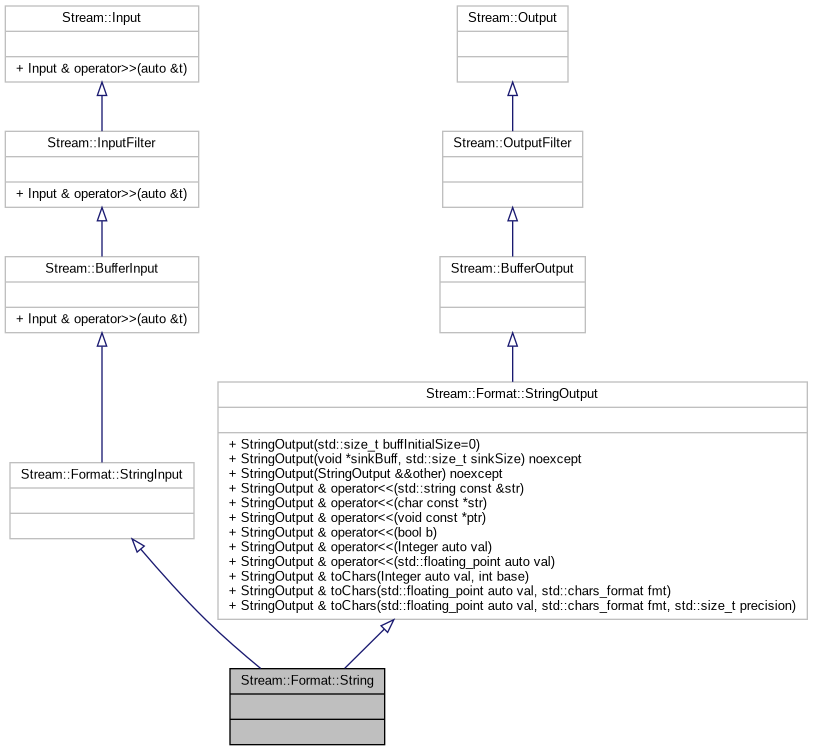
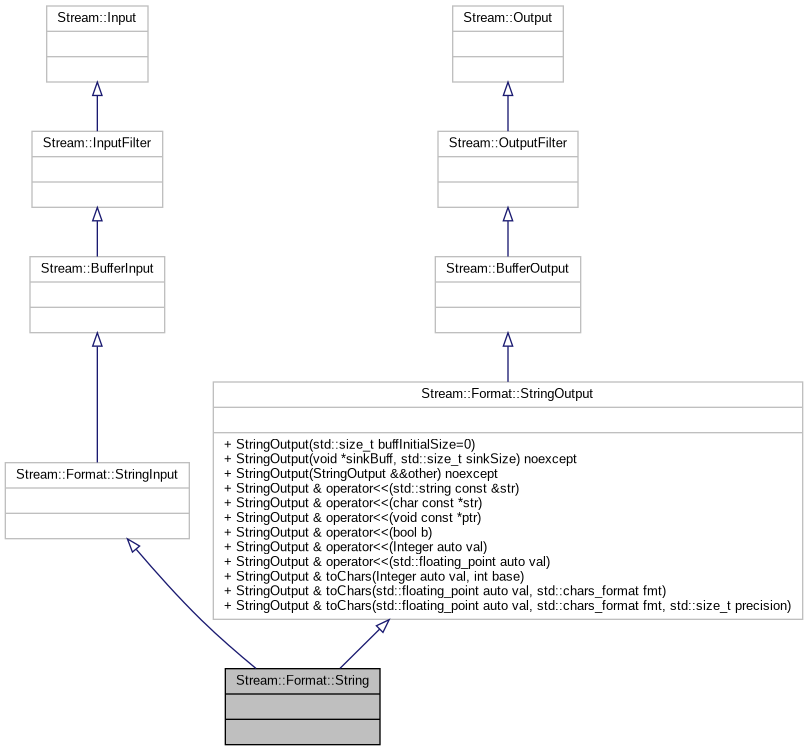
.

diff --git a/d9/d23/classStream_1_1Format_1_1String-members.html b/d9/d23/classStream_1_1Format_1_1String-members.html
@@ -80,13 +80,12 @@ $(function() {
   <tr bgcolor="#f0f0f0" class="odd"><td class="entry"><b>operator&lt;&lt;</b>(bool b) (defined in <a class="el" href="../../d8/d50/classStream_1_1Format_1_1StringOutput.html">Stream::Format::StringOutput</a>)</td><td class="entry"><a class="el" href="../../d8/d50/classStream_1_1Format_1_1StringOutput.html">Stream::Format::StringOutput</a></td><td class="entry"></td></tr>
   <tr bgcolor="#f0f0f0" class="even"><td class="entry"><b>operator&lt;&lt;</b>(Integer auto val) (defined in <a class="el" href="../../d8/d50/classStream_1_1Format_1_1StringOutput.html">Stream::Format::StringOutput</a>)</td><td class="entry"><a class="el" href="../../d8/d50/classStream_1_1Format_1_1StringOutput.html">Stream::Format::StringOutput</a></td><td class="entry"></td></tr>
   <tr bgcolor="#f0f0f0" class="odd"><td class="entry"><b>operator&lt;&lt;</b>(std::floating_point auto val) (defined in <a class="el" href="../../d8/d50/classStream_1_1Format_1_1StringOutput.html">Stream::Format::StringOutput</a>)</td><td class="entry"><a class="el" href="../../d8/d50/classStream_1_1Format_1_1StringOutput.html">Stream::Format::StringOutput</a></td><td class="entry"></td></tr>
-  <tr class="even"><td class="entry"><a class="elRef" href="../../../Stream/d7/d83/classStream_1_1Input.html#a0a8cb2f45caeb5a945eb15ea27244f31">operator&gt;&gt;</a>(auto &amp;t)</td><td class="entry"><a class="elRef" href="../../../Stream/d2/dc2/classStream_1_1BufferInput.html">Stream::BufferInput</a></td><td class="entry"></td></tr>
-  <tr bgcolor="#f0f0f0" class="odd"><td class="entry"><b>StringOutput</b>(std::size_t buffInitialSize=0) (defined in <a class="el" href="../../d8/d50/classStream_1_1Format_1_1StringOutput.html">Stream::Format::StringOutput</a>)</td><td class="entry"><a class="el" href="../../d8/d50/classStream_1_1Format_1_1StringOutput.html">Stream::Format::StringOutput</a></td><td class="entry"><span class="mlabel">explicit</span></td></tr>
-  <tr bgcolor="#f0f0f0" class="even"><td class="entry"><b>StringOutput</b>(void *sinkBuff, std::size_t sinkSize) noexcept (defined in <a class="el" href="../../d8/d50/classStream_1_1Format_1_1StringOutput.html">Stream::Format::StringOutput</a>)</td><td class="entry"><a class="el" href="../../d8/d50/classStream_1_1Format_1_1StringOutput.html">Stream::Format::StringOutput</a></td><td class="entry"></td></tr>
-  <tr bgcolor="#f0f0f0" class="odd"><td class="entry"><b>StringOutput</b>(StringOutput &amp;&amp;other) noexcept (defined in <a class="el" href="../../d8/d50/classStream_1_1Format_1_1StringOutput.html">Stream::Format::StringOutput</a>)</td><td class="entry"><a class="el" href="../../d8/d50/classStream_1_1Format_1_1StringOutput.html">Stream::Format::StringOutput</a></td><td class="entry"></td></tr>
-  <tr bgcolor="#f0f0f0" class="even"><td class="entry"><b>toChars</b>(Integer auto val, int base) (defined in <a class="el" href="../../d8/d50/classStream_1_1Format_1_1StringOutput.html">Stream::Format::StringOutput</a>)</td><td class="entry"><a class="el" href="../../d8/d50/classStream_1_1Format_1_1StringOutput.html">Stream::Format::StringOutput</a></td><td class="entry"></td></tr>
-  <tr bgcolor="#f0f0f0" class="odd"><td class="entry"><b>toChars</b>(std::floating_point auto val, std::chars_format fmt) (defined in <a class="el" href="../../d8/d50/classStream_1_1Format_1_1StringOutput.html">Stream::Format::StringOutput</a>)</td><td class="entry"><a class="el" href="../../d8/d50/classStream_1_1Format_1_1StringOutput.html">Stream::Format::StringOutput</a></td><td class="entry"></td></tr>
-  <tr bgcolor="#f0f0f0" class="even"><td class="entry"><b>toChars</b>(std::floating_point auto val, std::chars_format fmt, std::size_t precision) (defined in <a class="el" href="../../d8/d50/classStream_1_1Format_1_1StringOutput.html">Stream::Format::StringOutput</a>)</td><td class="entry"><a class="el" href="../../d8/d50/classStream_1_1Format_1_1StringOutput.html">Stream::Format::StringOutput</a></td><td class="entry"></td></tr>
+  <tr bgcolor="#f0f0f0" class="even"><td class="entry"><b>StringOutput</b>(std::size_t buffInitialSize=0) (defined in <a class="el" href="../../d8/d50/classStream_1_1Format_1_1StringOutput.html">Stream::Format::StringOutput</a>)</td><td class="entry"><a class="el" href="../../d8/d50/classStream_1_1Format_1_1StringOutput.html">Stream::Format::StringOutput</a></td><td class="entry"><span class="mlabel">explicit</span></td></tr>
+  <tr bgcolor="#f0f0f0" class="odd"><td class="entry"><b>StringOutput</b>(void *sinkBuff, std::size_t sinkSize) noexcept (defined in <a class="el" href="../../d8/d50/classStream_1_1Format_1_1StringOutput.html">Stream::Format::StringOutput</a>)</td><td class="entry"><a class="el" href="../../d8/d50/classStream_1_1Format_1_1StringOutput.html">Stream::Format::StringOutput</a></td><td class="entry"></td></tr>
+  <tr bgcolor="#f0f0f0" class="even"><td class="entry"><b>StringOutput</b>(StringOutput &amp;&amp;other) noexcept (defined in <a class="el" href="../../d8/d50/classStream_1_1Format_1_1StringOutput.html">Stream::Format::StringOutput</a>)</td><td class="entry"><a class="el" href="../../d8/d50/classStream_1_1Format_1_1StringOutput.html">Stream::Format::StringOutput</a></td><td class="entry"></td></tr>
+  <tr bgcolor="#f0f0f0" class="odd"><td class="entry"><b>toChars</b>(Integer auto val, int base) (defined in <a class="el" href="../../d8/d50/classStream_1_1Format_1_1StringOutput.html">Stream::Format::StringOutput</a>)</td><td class="entry"><a class="el" href="../../d8/d50/classStream_1_1Format_1_1StringOutput.html">Stream::Format::StringOutput</a></td><td class="entry"></td></tr>
+  <tr bgcolor="#f0f0f0" class="even"><td class="entry"><b>toChars</b>(std::floating_point auto val, std::chars_format fmt) (defined in <a class="el" href="../../d8/d50/classStream_1_1Format_1_1StringOutput.html">Stream::Format::StringOutput</a>)</td><td class="entry"><a class="el" href="../../d8/d50/classStream_1_1Format_1_1StringOutput.html">Stream::Format::StringOutput</a></td><td class="entry"></td></tr>
+  <tr bgcolor="#f0f0f0" class="odd"><td class="entry"><b>toChars</b>(std::floating_point auto val, std::chars_format fmt, std::size_t precision) (defined in <a class="el" href="../../d8/d50/classStream_1_1Format_1_1StringOutput.html">Stream::Format::StringOutput</a>)</td><td class="entry"><a class="el" href="../../d8/d50/classStream_1_1Format_1_1StringOutput.html">Stream::Format::StringOutput</a></td><td class="entry"></td></tr>
 </table></div><!-- contents -->
 <!-- start footer part -->
 		<script src="../../custom.js"></script>

diff --git a/dd/d7a/classStream_1_1Format_1_1String.html b/dd/d7a/classStream_1_1Format_1_1String.html
@@ -80,15 +80,15 @@ Inheritance diagram for Stream::Format::String:</div>
 <div class="dyncontent">
 <div class="center"><img src="../../d2/d58/classStream_1_1Format_1_1String__inherit__graph.png" border="0" usemap="#aStream_1_1Format_1_1String_inherit__map" alt="Inheritance graph"/></div>
 <map name="aStream_1_1Format_1_1String_inherit__map" id="aStream_1_1Format_1_1String_inherit__map">
-<area shape="rect" title=" " alt="" coords="230,668,385,745"/>
-<area shape="rect" href="../../d1/d9f/classStream_1_1Format_1_1StringInput.html" title=" " alt="" coords="10,462,194,539"/>
-<area shape="rect" target="_parent" href="../../../Stream/d2/dc2/classStream_1_1BufferInput" title=" " alt="" coords="5,256,199,333"/>
-<area shape="rect" target="_parent" href="../../../Stream/d3/d2f/classStream_1_1InputFilter" title=" " alt="" coords="5,131,199,208"/>
-<area shape="rect" target="_parent" href="../../../Stream/d7/d83/classStream_1_1Input" title=" " alt="" coords="5,5,199,83"/>
-<area shape="rect" href="../../d8/d50/classStream_1_1Format_1_1StringOutput.html" title=" " alt="" coords="218,381,807,620"/>
-<area shape="rect" target="_parent" href="../../../Stream/da/d65/classStream_1_1BufferOutput" title=" " alt="" coords="440,256,585,333"/>
-<area shape="rect" target="_parent" href="../../../Stream/d0/d57/classStream_1_1OutputFilter" title=" " alt="" coords="443,131,583,208"/>
-<area shape="rect" target="_parent" href="../../../Stream/df/dc2/classStream_1_1Output" title=" " alt="" coords="457,5,568,83"/>
+<area shape="rect" title=" " alt="" coords="225,668,380,745"/>
+<area shape="rect" href="../../d1/d9f/classStream_1_1Format_1_1StringInput.html" title=" " alt="" coords="5,462,189,539"/>
+<area shape="rect" target="_parent" href="../../../Stream/d2/dc2/classStream_1_1BufferInput" title=" " alt="" coords="30,256,165,333"/>
+<area shape="rect" target="_parent" href="../../../Stream/d3/d2f/classStream_1_1InputFilter" title=" " alt="" coords="32,131,163,208"/>
+<area shape="rect" target="_parent" href="../../../Stream/d7/d83/classStream_1_1Input" title=" " alt="" coords="47,5,148,83"/>
+<area shape="rect" href="../../d8/d50/classStream_1_1Format_1_1StringOutput.html" title=" " alt="" coords="213,381,803,620"/>
+<area shape="rect" target="_parent" href="../../../Stream/da/d65/classStream_1_1BufferOutput" title=" " alt="" coords="435,256,581,333"/>
+<area shape="rect" target="_parent" href="../../../Stream/d0/d57/classStream_1_1OutputFilter" title=" " alt="" coords="438,131,578,208"/>
+<area shape="rect" target="_parent" href="../../../Stream/df/dc2/classStream_1_1Output" title=" " alt="" coords="453,5,563,83"/>
 </map>
 </div>
 <table class="memberdecls">
@@ -99,9 +99,6 @@ Classes</h2></td></tr>
 </table><table class="memberdecls">
 <tr class="heading"><td colspan="2"><h2 class="groupheader"><a id="pub-methods" name="pub-methods"></a>
 Public Member Functions</h2></td></tr>
-<tr class="memitem:a0a8cb2f45caeb5a945eb15ea27244f31"><td class="memItemLeft" align="right" valign="top"><a id="a0a8cb2f45caeb5a945eb15ea27244f31" name="a0a8cb2f45caeb5a945eb15ea27244f31"></a>
-<a class="elRef" href="../../../Stream/d7/d83/classStream_1_1Input.html">Input</a> &amp;&#160;</td><td class="memItemRight" valign="bottom"><a class="elRef" href="../../../Stream/d7/d83/classStream_1_1Input.html#a0a8cb2f45caeb5a945eb15ea27244f31">operator&gt;&gt;</a> (auto &amp;t)</td></tr>
-<tr class="separator:a0a8cb2f45caeb5a945eb15ea27244f31"><td class="memSeparator" colspan="2">&#160;</td></tr>
 <tr class="memitem:a1677108f161cce584ede90b74e25de9f"><td class="memItemLeft" align="right" valign="top"><a class="el" href="../../d8/d50/classStream_1_1Format_1_1StringOutput.html">StringOutput</a> &amp;&#160;</td><td class="memItemRight" valign="bottom"><a class="el" href="../../d8/d50/classStream_1_1Format_1_1StringOutput.html#a1677108f161cce584ede90b74e25de9f">operator&lt;&lt;</a> (std::string const &amp;str)</td></tr>
 <tr class="separator:a1677108f161cce584ede90b74e25de9f"><td class="memSeparator" colspan="2">&#160;</td></tr>
 <tr class="memitem:a3bab86c42417e78b4fd7b4cf541fa922"><td class="memItemLeft" align="right" valign="top"><a class="el" href="../../d8/d50/classStream_1_1Format_1_1StringOutput.html">StringOutput</a> &amp;&#160;</td><td class="memItemRight" valign="bottom"><a class="el" href="../../d8/d50/classStream_1_1Format_1_1StringOutput.html#a3bab86c42417e78b4fd7b4cf541fa922">operator&lt;&lt;</a> (char const *str)</td></tr>

diff --git a/d1/d9f/classStream_1_1Format_1_1StringInput.html b/d1/d9f/classStream_1_1Format_1_1StringInput.html
@@ -69,9 +69,7 @@ $(function() {
 </div><!-- top -->
 <div class="header">
   <div class="summary">
-<a href="#nested-classes">Classes</a> &#124;
-<a href="#pub-methods">Public Member Functions</a> &#124;
-<a href="../../da/d25/classStream_1_1Format_1_1StringInput-members.html">List of all members</a>  </div>
+<a href="#nested-classes">Classes</a>  </div>
   <div class="headertitle"><div class="title">Stream::Format::StringInput Class Reference</div></div>
 </div><!--header-->
 <div class="contents">
@@ -80,11 +78,11 @@ Inheritance diagram for Stream::Format::StringInput:</div>
 <div class="dyncontent">
 <div class="center"><img src="../../dd/d49/classStream_1_1Format_1_1StringInput__inherit__graph.png" border="0" usemap="#aStream_1_1Format_1_1StringInput_inherit__map" alt="Inheritance graph"/></div>
 <map name="aStream_1_1Format_1_1StringInput_inherit__map" id="aStream_1_1Format_1_1StringInput_inherit__map">
-<area shape="rect" title=" " alt="" coords="10,381,194,459"/>
-<area shape="rect" href="../../dd/d7a/classStream_1_1Format_1_1String.html" title=" " alt="" coords="25,507,179,584"/>
-<area shape="rect" target="_parent" href="../../../Stream/d2/dc2/classStream_1_1BufferInput" title=" " alt="" coords="5,256,199,333"/>
-<area shape="rect" target="_parent" href="../../../Stream/d3/d2f/classStream_1_1InputFilter" title=" " alt="" coords="5,131,199,208"/>
-<area shape="rect" target="_parent" href="../../../Stream/d7/d83/classStream_1_1Input" title=" " alt="" coords="5,5,199,83"/>
+<area shape="rect" title=" " alt="" coords="5,381,189,459"/>
+<area shape="rect" href="../../dd/d7a/classStream_1_1Format_1_1String.html" title=" " alt="" coords="20,507,175,584"/>
+<area shape="rect" target="_parent" href="../../../Stream/d2/dc2/classStream_1_1BufferInput" title=" " alt="" coords="30,256,165,333"/>
+<area shape="rect" target="_parent" href="../../../Stream/d3/d2f/classStream_1_1InputFilter" title=" " alt="" coords="32,131,163,208"/>
+<area shape="rect" target="_parent" href="../../../Stream/d7/d83/classStream_1_1Input" title=" " alt="" coords="47,5,148,83"/>
 </map>
 </div>
 <table class="memberdecls">
@@ -92,12 +90,6 @@ Inheritance diagram for Stream::Format::StringInput:</div>
 Classes</h2></td></tr>
 <tr class="memitem:"><td class="memItemLeft" align="right" valign="top">struct &#160;</td><td class="memItemRight" valign="bottom"><a class="el" href="../../db/d74/structStream_1_1Format_1_1StringInput_1_1Exception.html">Exception</a></td></tr>
 <tr class="separator:"><td class="memSeparator" colspan="2">&#160;</td></tr>
-</table><table class="memberdecls">
-<tr class="heading"><td colspan="2"><h2 class="groupheader"><a id="pub-methods" name="pub-methods"></a>
-Public Member Functions</h2></td></tr>
-<tr class="memitem:a0a8cb2f45caeb5a945eb15ea27244f31"><td class="memItemLeft" align="right" valign="top"><a id="a0a8cb2f45caeb5a945eb15ea27244f31" name="a0a8cb2f45caeb5a945eb15ea27244f31"></a>
-<a class="elRef" href="../../../Stream/d7/d83/classStream_1_1Input.html">Input</a> &amp;&#160;</td><td class="memItemRight" valign="bottom"><a class="elRef" href="../../../Stream/d7/d83/classStream_1_1Input.html#a0a8cb2f45caeb5a945eb15ea27244f31">operator&gt;&gt;</a> (auto &amp;t)</td></tr>
-<tr class="separator:a0a8cb2f45caeb5a945eb15ea27244f31"><td class="memSeparator" colspan="2">&#160;</td></tr>
 </table>
 <a name="details" id="details"></a><h2 class="groupheader">Detailed Description</h2>
 <div class="textblock">

diff --git a/d6/da6/classStream_1_1Format_1_1Base.html b/d6/da6/classStream_1_1Format_1_1Base.html
@@ -87,9 +87,9 @@ Inheritance diagram for Stream::Format::Base:</div>
 <map name="aStream_1_1Format_1_1Base_inherit__map" id="aStream_1_1Format_1_1Base_inherit__map">
 <area shape="rect" title="Stream::Input / Stream::Output Base decoder and encoder." alt="" coords="89,580,896,760"/>
 <area shape="rect" href="../../d7/d8f/classStream_1_1Format_1_1BaseDecode.html" title="Stream::Input Base decoder." alt="" coords="5,381,497,532"/>
-<area shape="rect" target="_parent" href="../../../Stream/d2/dc2/classStream_1_1BufferInput" title=" " alt="" coords="155,256,348,333"/>
-<area shape="rect" target="_parent" href="../../../Stream/d3/d2f/classStream_1_1InputFilter" title=" " alt="" coords="155,131,348,208"/>
-<area shape="rect" target="_parent" href="../../../Stream/d7/d83/classStream_1_1Input" title=" " alt="" coords="155,5,348,83"/>
+<area shape="rect" target="_parent" href="../../../Stream/d2/dc2/classStream_1_1BufferInput" title=" " alt="" coords="184,256,319,333"/>
+<area shape="rect" target="_parent" href="../../../Stream/d3/d2f/classStream_1_1InputFilter" title=" " alt="" coords="186,131,317,208"/>
+<area shape="rect" target="_parent" href="../../../Stream/d7/d83/classStream_1_1Input" title=" " alt="" coords="201,5,302,83"/>
 <area shape="rect" href="../../d5/d69/classStream_1_1Format_1_1BaseEncode.html" title="Stream::Output Base encoder." alt="" coords="521,381,947,532"/>
 <area shape="rect" target="_parent" href="../../../Stream/da/d65/classStream_1_1BufferOutput" title=" " alt="" coords="661,256,807,333"/>
 <area shape="rect" target="_parent" href="../../../Stream/d0/d57/classStream_1_1OutputFilter" title=" " alt="" coords="664,131,804,208"/>
@@ -124,9 +124,6 @@ Public Member Functions</h2></td></tr>
 <tr class="separator:a228854431cc8af5a3ef721cd934e344f"><td class="memSeparator" colspan="2">&#160;</td></tr>
 <tr class="memitem:a882eb6feb9db3c43daa195cf909431b2"><td class="memItemLeft" align="right" valign="top">void&#160;</td><td class="memItemRight" valign="bottom"><a class="el" href="../../d7/d8f/classStream_1_1Format_1_1BaseDecode.html#a882eb6feb9db3c43daa195cf909431b2">finalizeDecodingWhenNoData</a> (bool on=true)</td></tr>
 <tr class="separator:a882eb6feb9db3c43daa195cf909431b2"><td class="memSeparator" colspan="2">&#160;</td></tr>
-<tr class="memitem:a0a8cb2f45caeb5a945eb15ea27244f31"><td class="memItemLeft" align="right" valign="top"><a id="a0a8cb2f45caeb5a945eb15ea27244f31" name="a0a8cb2f45caeb5a945eb15ea27244f31"></a>
-<a class="elRef" href="../../../Stream/d7/d83/classStream_1_1Input.html">Input</a> &amp;&#160;</td><td class="memItemRight" valign="bottom"><a class="elRef" href="../../../Stream/d7/d83/classStream_1_1Input.html#a0a8cb2f45caeb5a945eb15ea27244f31">operator&gt;&gt;</a> (auto &amp;t)</td></tr>
-<tr class="separator:a0a8cb2f45caeb5a945eb15ea27244f31"><td class="memSeparator" colspan="2">&#160;</td></tr>
 <tr class="memitem:adffa30ae147f4da60779ba962378c935"><td class="memItemLeft" align="right" valign="top">void&#160;</td><td class="memItemRight" valign="bottom"><a class="el" href="../../d5/d69/classStream_1_1Format_1_1BaseEncode.html#adffa30ae147f4da60779ba962378c935">finalizeEncoding</a> ()</td></tr>
 <tr class="separator:adffa30ae147f4da60779ba962378c935"><td class="memSeparator" colspan="2">&#160;</td></tr>
 </table>

diff --git a/d7/d8f/classStream_1_1Format_1_1BaseDecode.html b/d7/d8f/classStream_1_1Format_1_1BaseDecode.html
@@ -88,9 +88,9 @@ Inheritance diagram for Stream::Format::BaseDecode:</div>
 <map name="aStream_1_1Format_1_1BaseDecode_inherit__map" id="aStream_1_1Format_1_1BaseDecode_inherit__map">
 <area shape="rect" title="Stream::Input Base decoder." alt="" coords="163,381,655,532"/>
 <area shape="rect" href="../../d6/da6/classStream_1_1Format_1_1Base.html" title="Stream::Input / Stream::Output Base decoder and encoder." alt="" coords="5,580,812,760"/>
-<area shape="rect" target="_parent" href="../../../Stream/d2/dc2/classStream_1_1BufferInput" title=" " alt="" coords="312,256,505,333"/>
-<area shape="rect" target="_parent" href="../../../Stream/d3/d2f/classStream_1_1InputFilter" title=" " alt="" coords="312,131,505,208"/>
-<area shape="rect" target="_parent" href="../../../Stream/d7/d83/classStream_1_1Input" title=" " alt="" coords="312,5,505,83"/>
+<area shape="rect" target="_parent" href="../../../Stream/d2/dc2/classStream_1_1BufferInput" title=" " alt="" coords="341,256,476,333"/>
+<area shape="rect" target="_parent" href="../../../Stream/d3/d2f/classStream_1_1InputFilter" title=" " alt="" coords="343,131,474,208"/>
+<area shape="rect" target="_parent" href="../../../Stream/d7/d83/classStream_1_1Input" title=" " alt="" coords="358,5,459,83"/>
 </map>
 </div>
 <table class="memberdecls">
@@ -113,9 +113,6 @@ Public Member Functions</h2></td></tr>
 <tr class="separator:a228854431cc8af5a3ef721cd934e344f"><td class="memSeparator" colspan="2">&#160;</td></tr>
 <tr class="memitem:a882eb6feb9db3c43daa195cf909431b2"><td class="memItemLeft" align="right" valign="top">void&#160;</td><td class="memItemRight" valign="bottom"><a class="el" href="../../d7/d8f/classStream_1_1Format_1_1BaseDecode.html#a882eb6feb9db3c43daa195cf909431b2">finalizeDecodingWhenNoData</a> (bool on=true)</td></tr>
 <tr class="separator:a882eb6feb9db3c43daa195cf909431b2"><td class="memSeparator" colspan="2">&#160;</td></tr>
-<tr class="memitem:a0a8cb2f45caeb5a945eb15ea27244f31"><td class="memItemLeft" align="right" valign="top"><a id="a0a8cb2f45caeb5a945eb15ea27244f31" name="a0a8cb2f45caeb5a945eb15ea27244f31"></a>
-<a class="elRef" href="../../../Stream/d7/d83/classStream_1_1Input.html">Input</a> &amp;&#160;</td><td class="memItemRight" valign="bottom"><a class="elRef" href="../../../Stream/d7/d83/classStream_1_1Input.html#a0a8cb2f45caeb5a945eb15ea27244f31">operator&gt;&gt;</a> (auto &amp;t)</td></tr>
-<tr class="separator:a0a8cb2f45caeb5a945eb15ea27244f31"><td class="memSeparator" colspan="2">&#160;</td></tr>
 </table><table class="memberdecls">
 <tr class="heading"><td colspan="2"><h2 class="groupheader"><a id="friends" name="friends"></a>
 Friends</h2></td></tr>

diff --git a/da/dd9/classStream_1_1Format_1_1BaseDecode-members.html b/da/dd9/classStream_1_1Format_1_1BaseDecode-members.html
@@ -80,8 +80,7 @@ $(function() {
   <tr bgcolor="#f0f0f0" class="odd"><td class="entry"><b>finalizeDecoding</b>() (defined in <a class="el" href="../../d7/d8f/classStream_1_1Format_1_1BaseDecode.html">Stream::Format::BaseDecode</a>)</td><td class="entry"><a class="el" href="../../d7/d8f/classStream_1_1Format_1_1BaseDecode.html">Stream::Format::BaseDecode</a></td><td class="entry"></td></tr>
   <tr bgcolor="#f0f0f0" class="even"><td class="entry"><b>finalizeDecodingWhenNoData</b>(bool on=true) (defined in <a class="el" href="../../d7/d8f/classStream_1_1Format_1_1BaseDecode.html">Stream::Format::BaseDecode</a>)</td><td class="entry"><a class="el" href="../../d7/d8f/classStream_1_1Format_1_1BaseDecode.html">Stream::Format::BaseDecode</a></td><td class="entry"></td></tr>
   <tr bgcolor="#f0f0f0" class="odd"><td class="entry"><b>operator=</b>(BaseDecode &amp;&amp;other) noexcept (defined in <a class="el" href="../../d7/d8f/classStream_1_1Format_1_1BaseDecode.html">Stream::Format::BaseDecode</a>)</td><td class="entry"><a class="el" href="../../d7/d8f/classStream_1_1Format_1_1BaseDecode.html">Stream::Format::BaseDecode</a></td><td class="entry"></td></tr>
-  <tr class="even"><td class="entry"><a class="elRef" href="../../../Stream/d7/d83/classStream_1_1Input.html#a0a8cb2f45caeb5a945eb15ea27244f31">operator&gt;&gt;</a>(auto &amp;t)</td><td class="entry"><a class="elRef" href="../../../Stream/d2/dc2/classStream_1_1BufferInput.html">Stream::BufferInput</a></td><td class="entry"></td></tr>
-  <tr bgcolor="#f0f0f0" class="odd"><td class="entry"><b>swap</b> (defined in <a class="el" href="../../d7/d8f/classStream_1_1Format_1_1BaseDecode.html">Stream::Format::BaseDecode</a>)</td><td class="entry"><a class="el" href="../../d7/d8f/classStream_1_1Format_1_1BaseDecode.html">Stream::Format::BaseDecode</a></td><td class="entry"><span class="mlabel">friend</span></td></tr>
+  <tr bgcolor="#f0f0f0" class="even"><td class="entry"><b>swap</b> (defined in <a class="el" href="../../d7/d8f/classStream_1_1Format_1_1BaseDecode.html">Stream::Format::BaseDecode</a>)</td><td class="entry"><a class="el" href="../../d7/d8f/classStream_1_1Format_1_1BaseDecode.html">Stream::Format::BaseDecode</a></td><td class="entry"><span class="mlabel">friend</span></td></tr>
 </table></div><!-- contents -->
 <!-- start footer part -->
 		<script src="../../custom.js"></script>

diff --git a/d4/dfc/classStream_1_1Format_1_1Base-members.html b/d4/dfc/classStream_1_1Format_1_1Base-members.html
@@ -93,8 +93,7 @@ $(function() {
   <tr bgcolor="#f0f0f0" class="even"><td class="entry"><b>finalizeEncoding</b>() (defined in <a class="el" href="../../d5/d69/classStream_1_1Format_1_1BaseEncode.html">Stream::Format::BaseEncode</a>)</td><td class="entry"><a class="el" href="../../d5/d69/classStream_1_1Format_1_1BaseEncode.html">Stream::Format::BaseEncode</a></td><td class="entry"></td></tr>
   <tr bgcolor="#f0f0f0" class="odd"><td class="entry"><b>operator=</b>(BaseDecode &amp;&amp;other) noexcept (defined in <a class="el" href="../../d7/d8f/classStream_1_1Format_1_1BaseDecode.html">Stream::Format::BaseDecode</a>)</td><td class="entry"><a class="el" href="../../d7/d8f/classStream_1_1Format_1_1BaseDecode.html">Stream::Format::BaseDecode</a></td><td class="entry"></td></tr>
   <tr bgcolor="#f0f0f0" class="even"><td class="entry"><b>operator=</b>(BaseEncode &amp;&amp;other) noexcept (defined in <a class="el" href="../../d5/d69/classStream_1_1Format_1_1BaseEncode.html">Stream::Format::BaseEncode</a>)</td><td class="entry"><a class="el" href="../../d5/d69/classStream_1_1Format_1_1BaseEncode.html">Stream::Format::BaseEncode</a></td><td class="entry"></td></tr>
-  <tr class="odd"><td class="entry"><a class="elRef" href="../../../Stream/d7/d83/classStream_1_1Input.html#a0a8cb2f45caeb5a945eb15ea27244f31">operator&gt;&gt;</a>(auto &amp;t)</td><td class="entry"><a class="elRef" href="../../../Stream/d2/dc2/classStream_1_1BufferInput.html">Stream::BufferInput</a></td><td class="entry"></td></tr>
-  <tr bgcolor="#f0f0f0" class="even"><td class="entry"><b>~BaseEncode</b>() (defined in <a class="el" href="../../d5/d69/classStream_1_1Format_1_1BaseEncode.html">Stream::Format::BaseEncode</a>)</td><td class="entry"><a class="el" href="../../d5/d69/classStream_1_1Format_1_1BaseEncode.html">Stream::Format::BaseEncode</a></td><td class="entry"></td></tr>
+  <tr bgcolor="#f0f0f0" class="odd"><td class="entry"><b>~BaseEncode</b>() (defined in <a class="el" href="../../d5/d69/classStream_1_1Format_1_1BaseEncode.html">Stream::Format::BaseEncode</a>)</td><td class="entry"><a class="el" href="../../d5/d69/classStream_1_1Format_1_1BaseEncode.html">Stream::Format::BaseEncode</a></td><td class="entry"></td></tr>
 </table></div><!-- contents -->
 <!-- start footer part -->
 		<script src="../../custom.js"></script>

diff --git a/search/all_5.js b/search/all_5.js
@@ -1,6 +1,5 @@
 var searchData=
 [
-  ['operator_3e_3e_0',['operator&gt;&gt;',['../../Stream/d7/d83/classStream_1_1Input.html#a0a8cb2f45caeb5a945eb15ea27244f31',1,'Stream::Buffer::operator&gt;&gt;()'],['../../Stream/d7/d83/classStream_1_1Input.html#a0a8cb2f45caeb5a945eb15ea27244f31',1,'Stream::BufferInput::operator&gt;&gt;()'],['../../Stream/d7/d83/classStream_1_1Input.html#a0a8cb2f45caeb5a945eb15ea27244f31',1,'Stream::File::operator&gt;&gt;()'],['../../Stream/d7/d83/classStream_1_1Input.html#a0a8cb2f45caeb5a945eb15ea27244f31',1,'Stream::FileInput::operator&gt;&gt;()'],['../../Stream/d7/d83/classStream_1_1Input.html#a0a8cb2f45caeb5a945eb15ea27244f31',1,'Stream::Input::operator&gt;&gt;()'],['../../Stream/d7/d83/classStream_1_1Input.html#a0a8cb2f45caeb5a945eb15ea27244f31',1,'Stream::InputFilter::operator&gt;&gt;()'],['../../Stream/d7/d83/classStream_1_1Input.html#a0a8cb2f45caeb5a945eb15ea27244f31',1,'Stream::Pipe::operator&gt;&gt;()'],['../../Stream/d7/d83/classStream_1_1Input.html#a0a8cb2f45caeb5a945eb15ea27244f31',1,'Stream::PipeInput::operator&gt;&gt;()'],['../../Stream/d7/d83/classStream_1_1Input.html#a0a8cb2f45caeb5a945eb15ea27244f31',1,'Stream::Socket::operator&gt;&gt;()'],['../../Stream/d7/d83/classStream_1_1Input.html#a0a8cb2f45caeb5a945eb15ea27244f31',1,'Stream::SocketInput::operator&gt;&gt;()']]],
-  ['output_1',['Output',['../../Stream/df/dc2/classStream_1_1Output.html',1,'Stream']]],
-  ['outputfilter_2',['OutputFilter',['../../Stream/d0/d57/classStream_1_1OutputFilter.html',1,'Stream']]]
+  ['output_0',['Output',['../../Stream/df/dc2/classStream_1_1Output.html',1,'Stream']]],
+  ['outputfilter_1',['OutputFilter',['../../Stream/d0/d57/classStream_1_1OutputFilter.html',1,'Stream']]]
 ];

diff --git a/search/functions_0.js b/search/functions_0.js
@@ -1,4 +1,4 @@
 var searchData=
 [
-  ['operator_3e_3e_0',['operator&gt;&gt;',['../../Stream/d7/d83/classStream_1_1Input.html#a0a8cb2f45caeb5a945eb15ea27244f31',1,'Stream::Buffer::operator&gt;&gt;()'],['../../Stream/d7/d83/classStream_1_1Input.html#a0a8cb2f45caeb5a945eb15ea27244f31',1,'Stream::BufferInput::operator&gt;&gt;()'],['../../Stream/d7/d83/classStream_1_1Input.html#a0a8cb2f45caeb5a945eb15ea27244f31',1,'Stream::File::operator&gt;&gt;()'],['../../Stream/d7/d83/classStream_1_1Input.html#a0a8cb2f45caeb5a945eb15ea27244f31',1,'Stream::FileInput::operator&gt;&gt;()'],['../../Stream/d7/d83/classStream_1_1Input.html#a0a8cb2f45caeb5a945eb15ea27244f31',1,'Stream::Input::operator&gt;&gt;()'],['../../Stream/d7/d83/classStream_1_1Input.html#a0a8cb2f45caeb5a945eb15ea27244f31',1,'Stream::InputFilter::operator&gt;&gt;()'],['../../Stream/d7/d83/classStream_1_1Input.html#a0a8cb2f45caeb5a945eb15ea27244f31',1,'Stream::Pipe::operator&gt;&gt;()'],['../../Stream/d7/d83/classStream_1_1Input.html#a0a8cb2f45caeb5a945eb15ea27244f31',1,'Stream::PipeInput::operator&gt;&gt;()'],['../../Stream/d7/d83/classStream_1_1Input.html#a0a8cb2f45caeb5a945eb15ea27244f31',1,'Stream::Socket::operator&gt;&gt;()'],['../../Stream/d7/d83/classStream_1_1Input.html#a0a8cb2f45caeb5a945eb15ea27244f31',1,'Stream::SocketInput::operator&gt;&gt;()']]]
+  ['_7efileoutput_0',['~FileOutput',['../../Stream/df/dc2/classStream_1_1FileOutput.html#ace5f0acccd18375f4ac5f6cad3f89788',1,'Stream::FileOutput']]]
 ];

diff --git a/search/searchdata.js b/search/searchdata.js
@@ -3,7 +3,7 @@ var indexSectionsWithContent =
   0: "bdefiopst~",
   1: "bdefiopst",
   2: "s",
-  3: "o~"
+  3: "~"
 };
 
 var indexSectionNames =
